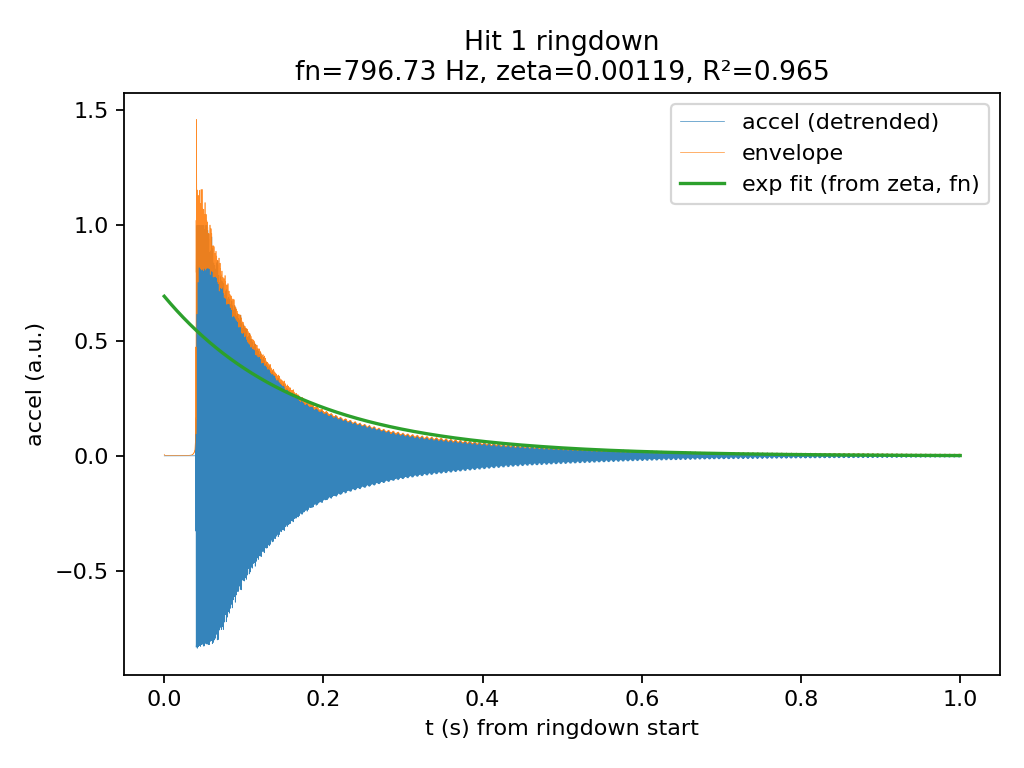
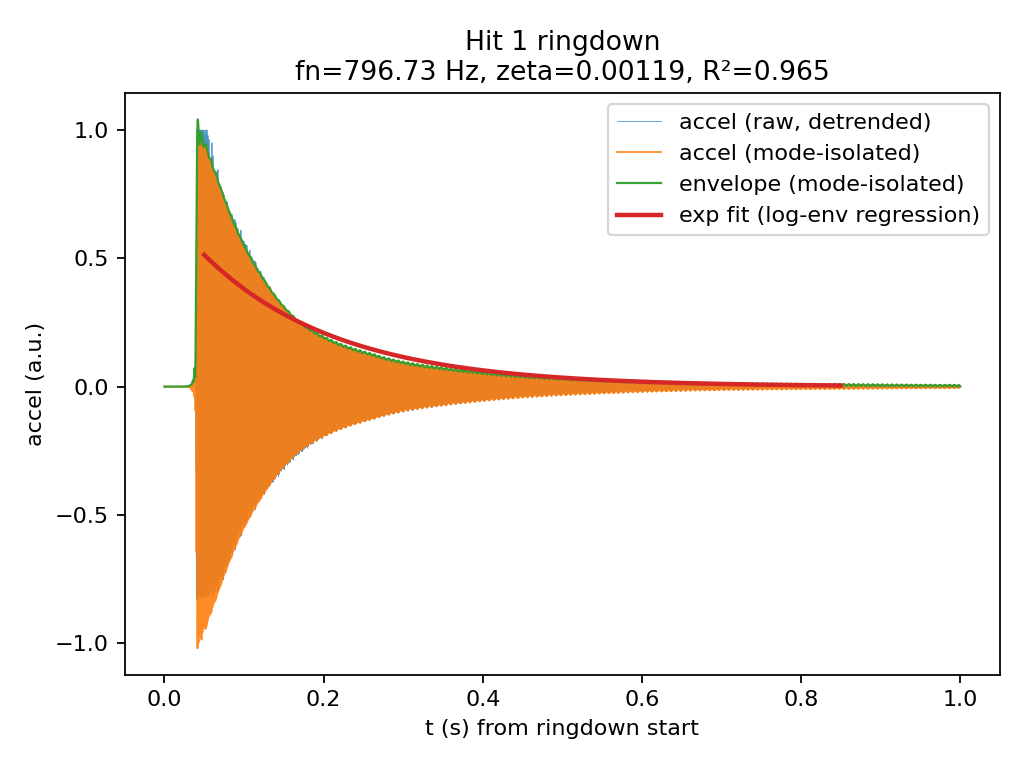
commit juste avant un drop-in de code

diff --git a/src/wav_to_freq/reporting/plots.py b/src/wav_to_freq/reporting/plots.py
@@ -3,6 +3,7 @@ from typing import Sequence
 
 import numpy as np
 import matplotlib.pyplot as plt
+from numpy.linalg import lstsq
 from numpy.typing import NDArray
 
 from wav_to_freq.impact_io import HitWindow, StereoWav
@@ -191,6 +192,19 @@ def plot_hit_response_with_damping(
         x_bp = x_raw
         env = np.abs(hilbert(x_raw)) + 1e-12
 
+    n = len(env)
+    i0 = max(0, int(0.05 * n))
+    i1 = max(i0 +10, int(0.85 *n))
+
+    tt = t[i0:i1]
+    # yy = np.log(env[i0+i1] + 1e-12)
+
+    # A = np.vstack([np.ones_like(tt), tt]).T
+    # coef, *_ = np.linalg.lstsq(A, yy, rcond=None)
+    # c, m = float(coef[0]), float(coef[1])
+
+    # fit = np.exp(c + m * tt)
+
     plt.figure()
     plt.plot(t, x_raw, label="accel (raw, detrended)", lw=lw_raw, alpha=alpha_raw)
 
@@ -207,20 +221,20 @@ def plot_hit_response_with_damping(
     if have_fit:
         c = float(result.env_log_c)
         m = float(result.env_log_m)
-        fit = np.exp(c + m * t)
-    if have_fit:
-        c = float(result.env_log_c)
-        m = float(result.env_log_m)
-        fit = np.exp(c + m * t)
-        plt.plot(t, fit, label="exp fit (log-env regression)", lw=lw_fit)
+        # fit = np.exp(c + m * t)
+        fit = np.exp(c + m * tt)
+        # plt.plot(t, fit, label="exp fit (log-env regression)", lw=lw_fit)
+        plt.plot(tt, fit, label="exp fit (log-env regression)", lw=lw_fit)
     else:
         # Fallback: use zeta,fn anchoring (may not align perfectly with envelope scale)
         if np.isfinite(result.zeta) and result.zeta > 0 and have_mode:
             omega_n = 2.0 * np.pi * float(result.fn_hz)
             alpha = float(result.zeta) * omega_n
             A0 = float(env[max(0, min(5, len(env)-1))])  # avoid t=0 transient a bit
-            fit = A0 * np.exp(-alpha * t)
-            plt.plot(t, fit, label="exp fit (from zeta, fn)", lw=lw_fit)
+            # fit = A0 * np.exp(-alpha * t)
+            fit = A0 * np.exp(-alpha * tt)
+            # plt.plot(t, fit, label="exp fit (from zeta, fn)", lw=lw_fit)
+            plt.plot(tt, fit, label="exp fit (from zeta, fn)", lw=lw_fit)
 
     plt.title(f"Hit {result.hit_id} ringdown\n{txt}")
     plt.xlabel("t (s) from ringdown start")

diff --git a/src/wav_to_freq/reporting/modal.py b/src/wav_to_freq/reporting/modal.py
@@ -106,7 +106,7 @@ def write_modal_report(
         png_time = fig_dir / f"hit_{r.hit_id:03d}_time.png"
         png_psd = fig_dir / f"hit_{r.hit_id:03d}_psd.png"
 
-        plot_hit_response_with_damping(t_abs=t_abs, x=x, result=r, out_png=png_time)
+        plot_hit_response_with_damping(fs=stereo.fs, t_abs=t_abs, x=x, result=r, out_png=png_time)
         plot_hit_spectrum(
             x=x,
             fs=stereo.fs,
